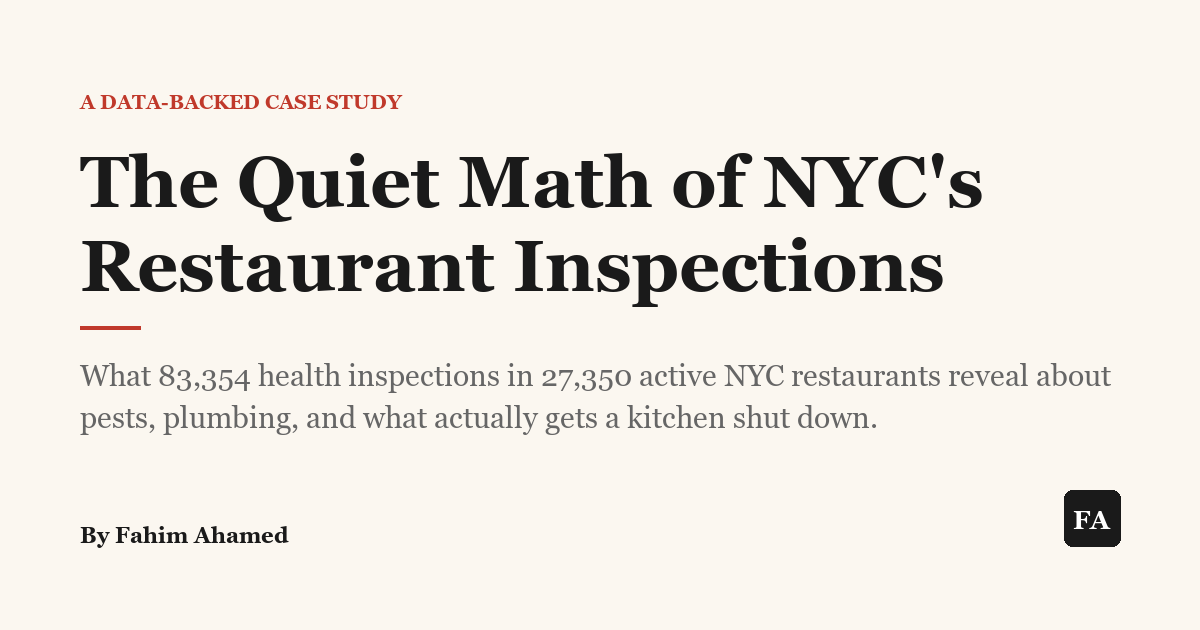
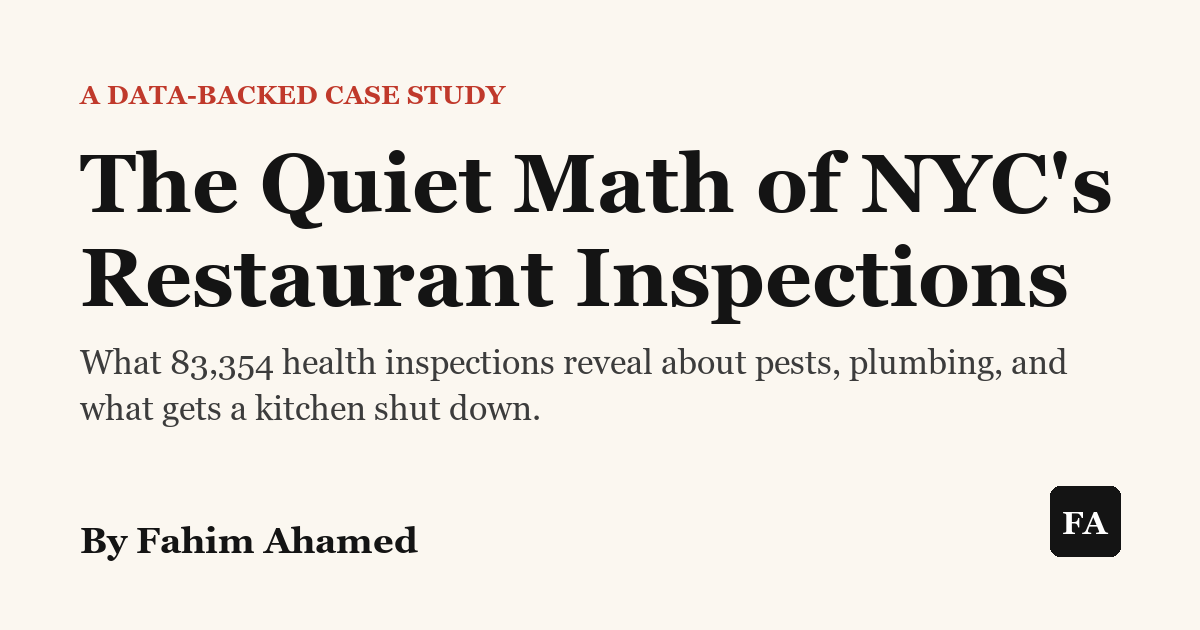
Refine OG image and article polish: bigger byline + sharper text on preview card, snapshot disclaimer before citations

diff --git a/reports/article.html b/reports/article.html
@@ -130,11 +130,38 @@ footer {
   font-family: "Inter", system-ui, sans-serif;
   font-size: 13px; color: var(--ink-dim); line-height: 1.55;
 }
+/* Standalone horizontal divider that floats above the element it's applied
+   to. Used to separate the "A note on reproducibility" callout from the
+   prose above it, mirroring the line that appears before the citations
+   footer. We use ::before instead of border-top because the .aside class
+   has its own background + padding, so a border-top would draw INSIDE the
+   callout's grey box rather than as a free-standing line. */
+.aside-divider {
+  position: relative;
+  margin-top: 72px;
+}
+.aside-divider::before {
+  content: "";
+  position: absolute;
+  top: -36px;
+  left: 0; right: 0;
+  height: 1px;
+  background: var(--rule);
+}
+/* When the footer directly follows an aside-divider, the footer's normal
+   72px top-margin stacks with the aside's bottom margin, leaving an
+   awkward gap above the citations divider. Tighten that. */
+.aside-divider + footer {
+  margin-top: 36px;
+}
 footer code { background: #eee; padding: 1px 5px; border-radius: 3px; font-size: 12px; }
 footer a { color: var(--accent); text-decoration: none; }
 footer a:hover { text-decoration: underline; }
 footer h3 { font-size: 13px; text-transform: uppercase; letter-spacing: 0.1em;
             color: var(--ink); margin: 18px 0 6px 0; font-weight: 700; }
+/* The first heading in the footer doesn't need an extra top margin — the
+   footer's padding-top already provides the gap below the divider line. */
+footer h3:first-child { margin-top: 0; }
 footer ol.citations { padding-left: 22px; margin: 0 0 8px 0; }
 footer ol.citations li { margin-bottom: 10px; scroll-margin-top: 24px; }
 footer ol.citations li:target {
@@ -1221,7 +1248,7 @@ h2[id^="sec-"] { scroll-margin-top: 24px; }
           the active roll.
         </p>
 
-        <p class="aside">
+        <p class="aside aside-divider">
           <strong>A note on reproducibility.</strong> DOHMH updates the
           inspection file daily, and because the published file is a
           rolling three-year window, old inspections drop off the back end
@@ -1301,9 +1328,13 @@ h2[id^="sec-"] { scroll-margin-top: 24px; }
         function armSectionNav() {
           const navLinks = document.querySelectorAll('.section-nav a');
           if (!navLinks.length) return;
-          const sections = Array.from(
-            document.querySelectorAll('article h2[id^="sec-"]'));
-          if (!sections.length) return;
+          // Track ALL article h2s (not just the numbered sec-* ones) so we
+          // can detect when the reader has scrolled past §8 into the
+          // "What this data cannot tell us" or citations footer area —
+          // those h2s have no sec-* id, so when one of them becomes the
+          // last-passed h2 we clear the nav (nothing to highlight).
+          const allH2s = Array.from(document.querySelectorAll('article h2'));
+          if (!allH2s.length) return;
 
           function updateActive() {
             // Near the top of the page: no section is "current" yet.
@@ -1312,13 +1343,19 @@ h2[id^="sec-"] { scroll-margin-top: 24px; }
               return;
             }
             const trigger = window.innerHeight * 0.35;
-            let active = sections[0];
-            for (const sec of sections) {
-              if (sec.getBoundingClientRect().top <= trigger) {
-                active = sec;
+            let active = null;
+            for (const h2 of allH2s) {
+              if (h2.getBoundingClientRect().top <= trigger) {
+                active = h2;
               } else {
                 break;
               }
+            }
+            // If the last-passed h2 isn't a numbered section, the reader is
+            // in the conclusion / "cannot tell us" / citations area. Clear.
+            if (!active || !active.id || !active.id.startsWith('sec-')) {
+              navLinks.forEach(link => link.classList.remove('active'));
+              return;
             }
             navLinks.forEach(link => {
               link.classList.toggle('active',

diff --git a/src/build_og_image.py b/src/build_og_image.py
@@ -8,9 +8,16 @@ Slack link previews, etc.). Run once after any title/byline change:
 
 Output: reports/og-image.png
 
-The PNG is referenced from article.html's <head> via the og:image meta
-tag, and is served alongside article.html when the repo is deployed to
-GitHub Pages.
+Design notes
+------------
+LinkedIn / Twitter compositors aggressively downscale the OG image to
+small thumbnails in compact preview modes. Anything light-grey or below
+~32pt becomes mush. This card uses:
+  * Solid dark text (no greys for secondary copy)
+  * 96pt title that fills the top half
+  * 38pt deck text, two lines max
+  * 28pt byline
+  * High-contrast monogram badge
 """
 from pathlib import Path
 from PIL import Image, ImageDraw, ImageFont
@@ -22,41 +29,52 @@ OUT = REPORTS / "og-image.png"
 # Canvas
 W, H = 1200, 630
 BG       = (251, 247, 240)   # warm off-white, matches article body
-INK      = (26, 26, 26)      # primary text (matches --ink)
-INK_DIM  = (102, 102, 102)   # secondary text (matches --ink-dim)
+INK      = (20, 20, 20)      # primary text, slightly darker than --ink
+SUBTLE   = (60, 60, 60)      # deck text — darker than --ink-dim for thumbnail legibility
 ACCENT   = (192, 57, 43)     # red accent (matches --accent)
-RULE     = (218, 218, 218)   # hairline rule color
+MONO_BG  = (20, 20, 20)      # dark badge background for FA monogram
 
 # Side padding
 PAD_L = 80
 PAD_R = 80
-PAD_T = 90
-PAD_B = 80
+PAD_T = 80
+PAD_B = 70
 
 
 def load_font(size: int, bold: bool = False, italic: bool = False):
-    """Best-effort font loader. Tries Source Serif Pro / Inter if installed
-    on the machine, falls back to Georgia / Arial / PIL default."""
-    candidates_serif = [
-        "SourceSerifPro-Bold.ttf" if bold else "SourceSerifPro-Regular.ttf",
-        "Georgia Bold.ttf" if bold else "Georgia.ttf",
-        "georgiab.ttf" if bold else "georgia.ttf",
-        "Times New Roman Bold.ttf" if bold else "Times New Roman.ttf",
-        "timesbd.ttf" if bold else "times.ttf",
+    """Best-effort font loader. Tries Source Serif Pro / Inter / Georgia
+    candidates in order, falls back to PIL default if nothing's found."""
+    candidates_serif_bold = [
+        "SourceSerifPro-Bold.ttf",
+        "Georgia Bold.ttf",
+        "georgiab.ttf",
+        "Times New Roman Bold.ttf",
+        "timesbd.ttf",
     ]
-    candidates_sans = [
-        "Inter-Bold.ttf" if bold else "Inter-Regular.ttf",
-        "Arial Bold.ttf" if bold else "Arial.ttf",
-        "arialbd.ttf" if bold else "arial.ttf",
+    candidates_serif_regular = [
+        "SourceSerifPro-Regular.ttf",
+        "Georgia.ttf",
+        "georgia.ttf",
+        "Times New Roman.ttf",
+        "times.ttf",
     ]
-    # Caller distinguishes serif via the `italic` flag here — keep it simple:
-    # we always try serif first (used for the title and deck), and the
-    # eyebrow + byline pass bold=True to get a bolder fallback weight.
-    candidates = candidates_serif if not italic else [
-        f.replace("Regular", "Italic").replace("Bold", "BoldItalic")
-        for f in candidates_serif
+    candidates_serif_italic = [
+        "SourceSerifPro-Italic.ttf",
+        "Georgia Italic.ttf",
+        "georgiai.ttf",
     ]
-    for name in candidates + candidates_sans:
+    candidates_sans_bold = [
+        "Inter-Bold.ttf",
+        "Arial Bold.ttf",
+        "arialbd.ttf",
+    ]
+    if italic:
+        candidates = candidates_serif_italic
+    elif bold:
+        candidates = candidates_serif_bold + candidates_sans_bold
+    else:
+        candidates = candidates_serif_regular
+    for name in candidates:
         try:
             return ImageFont.truetype(name, size)
         except (OSError, IOError):
@@ -85,65 +103,57 @@ def build_og_image():
     img = Image.new("RGB", (W, H), BG)
     draw = ImageDraw.Draw(img)
 
-    # Top eyebrow: "A DATA-BACKED CASE STUDY" in red small-caps style
-    eyebrow_font = load_font(20, bold=True)
-    draw.text(
-        (PAD_L, PAD_T),
-        "A DATA-BACKED CASE STUDY",
-        fill=ACCENT, font=eyebrow_font,
-    )
-
-    # Main title — large serif bold
-    title_font = load_font(72, bold=True)
-    title_text = "The Quiet Math of NYC's Restaurant Inspections"
     max_text_w = W - PAD_L - PAD_R
+
+    # Top eyebrow: red, bold, larger than original.
+    eyebrow_font = load_font(26, bold=True)
+    eyebrow_text = "A DATA-BACKED CASE STUDY"
+    draw.text((PAD_L, PAD_T), eyebrow_text, fill=ACCENT, font=eyebrow_font)
+
+    # Main title — much larger serif, dark, 2 lines max.
+    title_font = load_font(82, bold=True)
+    title_text = "The Quiet Math of NYC's Restaurant Inspections"
     title_lines = wrap_text(draw, title_text, title_font, max_text_w)
-    title_y = PAD_T + 50
-    line_h = 84
+    title_y = PAD_T + 56
+    line_h = 94
     for line in title_lines:
         draw.text((PAD_L, title_y), line, fill=INK, font=title_font)
         title_y += line_h
 
-    # Thin red rule under the title
-    rule_y = title_y + 18
-    draw.rectangle([PAD_L, rule_y, PAD_L + 60, rule_y + 3], fill=ACCENT)
-
-    # Deck (italic medium serif, dim color)
-    deck_font = load_font(30, italic=True)
-    deck_text = ("What 83,354 health inspections in 27,350 active NYC "
-                 "restaurants reveal about pests, plumbing, and what "
-                 "actually gets a kitchen shut down.")
+    # Deck — bigger and DARKER than before so it survives thumbnail compression.
+    deck_font = load_font(34, bold=False)
+    deck_text = ("What 83,354 health inspections reveal about pests, "
+                 "plumbing, and what gets a kitchen shut down.")
     deck_lines = wrap_text(draw, deck_text, deck_font, max_text_w)
-    deck_y = rule_y + 32
-    deck_line_h = 42
+    deck_y = title_y + 18
+    deck_line_h = 46
     for line in deck_lines:
-        draw.text((PAD_L, deck_y), line, fill=INK_DIM, font=deck_font)
+        draw.text((PAD_L, deck_y), line, fill=SUBTLE, font=deck_font)
         deck_y += deck_line_h
 
-    # Byline at bottom
-    byline_font = load_font(22, bold=True)
+    # Byline at bottom-left — bigger, dark.
+    byline_font = load_font(36, bold=True)
     byline_text = "By Fahim Ahamed"
-    draw.text(
-        (PAD_L, H - PAD_B - 28),
-        byline_text,
-        fill=INK, font=byline_font,
-    )
+    byline_bbox = draw.textbbox((0, 0), byline_text, font=byline_font)
+    byline_h = byline_bbox[3] - byline_bbox[1]
+    byline_y = H - PAD_B - byline_h - 6
+    draw.text((PAD_L, byline_y), byline_text, fill=INK, font=byline_font)
 
-    # Subtle "FA" monogram in the bottom-right corner — mirrors the favicon.
-    mono_size = 56
+    # "FA" monogram badge bottom-right — matches the favicon, slightly larger.
+    mono_size = 70
     mono_x = W - PAD_R - mono_size
     mono_y = H - PAD_B - mono_size - 4
     draw.rounded_rectangle(
         [mono_x, mono_y, mono_x + mono_size, mono_y + mono_size],
-        radius=8, fill=INK,
+        radius=10, fill=MONO_BG,
     )
-    fa_font = load_font(26, bold=True)
+    fa_font = load_font(32, bold=True)
     fa_bbox = draw.textbbox((0, 0), "FA", font=fa_font)
     fa_w = fa_bbox[2] - fa_bbox[0]
     fa_h = fa_bbox[3] - fa_bbox[1]
     draw.text(
         (mono_x + (mono_size - fa_w) / 2,
-         mono_y + (mono_size - fa_h) / 2 - 4),
+         mono_y + (mono_size - fa_h) / 2 - 6),
         "FA",
         fill="white", font=fa_font,
     )

diff --git a/src/build_article.py b/src/build_article.py
@@ -1419,11 +1419,38 @@ footer {
   font-family: "Inter", system-ui, sans-serif;
   font-size: 13px; color: var(--ink-dim); line-height: 1.55;
 }
+/* Standalone horizontal divider that floats above the element it's applied
+   to. Used to separate the "A note on reproducibility" callout from the
+   prose above it, mirroring the line that appears before the citations
+   footer. We use ::before instead of border-top because the .aside class
+   has its own background + padding, so a border-top would draw INSIDE the
+   callout's grey box rather than as a free-standing line. */
+.aside-divider {
+  position: relative;
+  margin-top: 72px;
+}
+.aside-divider::before {
+  content: "";
+  position: absolute;
+  top: -36px;
+  left: 0; right: 0;
+  height: 1px;
+  background: var(--rule);
+}
+/* When the footer directly follows an aside-divider, the footer's normal
+   72px top-margin stacks with the aside's bottom margin, leaving an
+   awkward gap above the citations divider. Tighten that. */
+.aside-divider + footer {
+  margin-top: 36px;
+}
 footer code { background: #eee; padding: 1px 5px; border-radius: 3px; font-size: 12px; }
 footer a { color: var(--accent); text-decoration: none; }
 footer a:hover { text-decoration: underline; }
 footer h3 { font-size: 13px; text-transform: uppercase; letter-spacing: 0.1em;
             color: var(--ink); margin: 18px 0 6px 0; font-weight: 700; }
+/* The first heading in the footer doesn't need an extra top margin — the
+   footer's padding-top already provides the gap below the divider line. */
+footer h3:first-child { margin-top: 0; }
 footer ol.citations { padding-left: 22px; margin: 0 0 8px 0; }
 footer ol.citations li { margin-bottom: 10px; scroll-margin-top: 24px; }
 footer ol.citations li:target {
@@ -2551,7 +2578,7 @@ def render(stats: dict, charts: dict) -> str:
           the active roll.
         </p>
 
-        <p class="aside">
+        <p class="aside aside-divider">
           <strong>A note on reproducibility.</strong> DOHMH updates the
           inspection file daily, and because the published file is a
           rolling three-year window, old inspections drop off the back end
@@ -2631,9 +2658,13 @@ def render(stats: dict, charts: dict) -> str:
         function armSectionNav() {{
           const navLinks = document.querySelectorAll('.section-nav a');
           if (!navLinks.length) return;
-          const sections = Array.from(
-            document.querySelectorAll('article h2[id^="sec-"]'));
-          if (!sections.length) return;
+          // Track ALL article h2s (not just the numbered sec-* ones) so we
+          // can detect when the reader has scrolled past §8 into the
+          // "What this data cannot tell us" or citations footer area —
+          // those h2s have no sec-* id, so when one of them becomes the
+          // last-passed h2 we clear the nav (nothing to highlight).
+          const allH2s = Array.from(document.querySelectorAll('article h2'));
+          if (!allH2s.length) return;
 
           function updateActive() {{
             // Near the top of the page: no section is "current" yet.
@@ -2642,13 +2673,19 @@ def render(stats: dict, charts: dict) -> str:
               return;
             }}
             const trigger = window.innerHeight * 0.35;
-            let active = sections[0];
-            for (const sec of sections) {{
-              if (sec.getBoundingClientRect().top <= trigger) {{
-                active = sec;
+            let active = null;
+            for (const h2 of allH2s) {{
+              if (h2.getBoundingClientRect().top <= trigger) {{
+                active = h2;
               }} else {{
                 break;
               }}
+            }}
+            // If the last-passed h2 isn't a numbered section, the reader is
+            // in the conclusion / "cannot tell us" / citations area. Clear.
+            if (!active || !active.id || !active.id.startsWith('sec-')) {{
+              navLinks.forEach(link => link.classList.remove('active'));
+              return;
             }}
             navLinks.forEach(link => {{
               link.classList.toggle('active',
